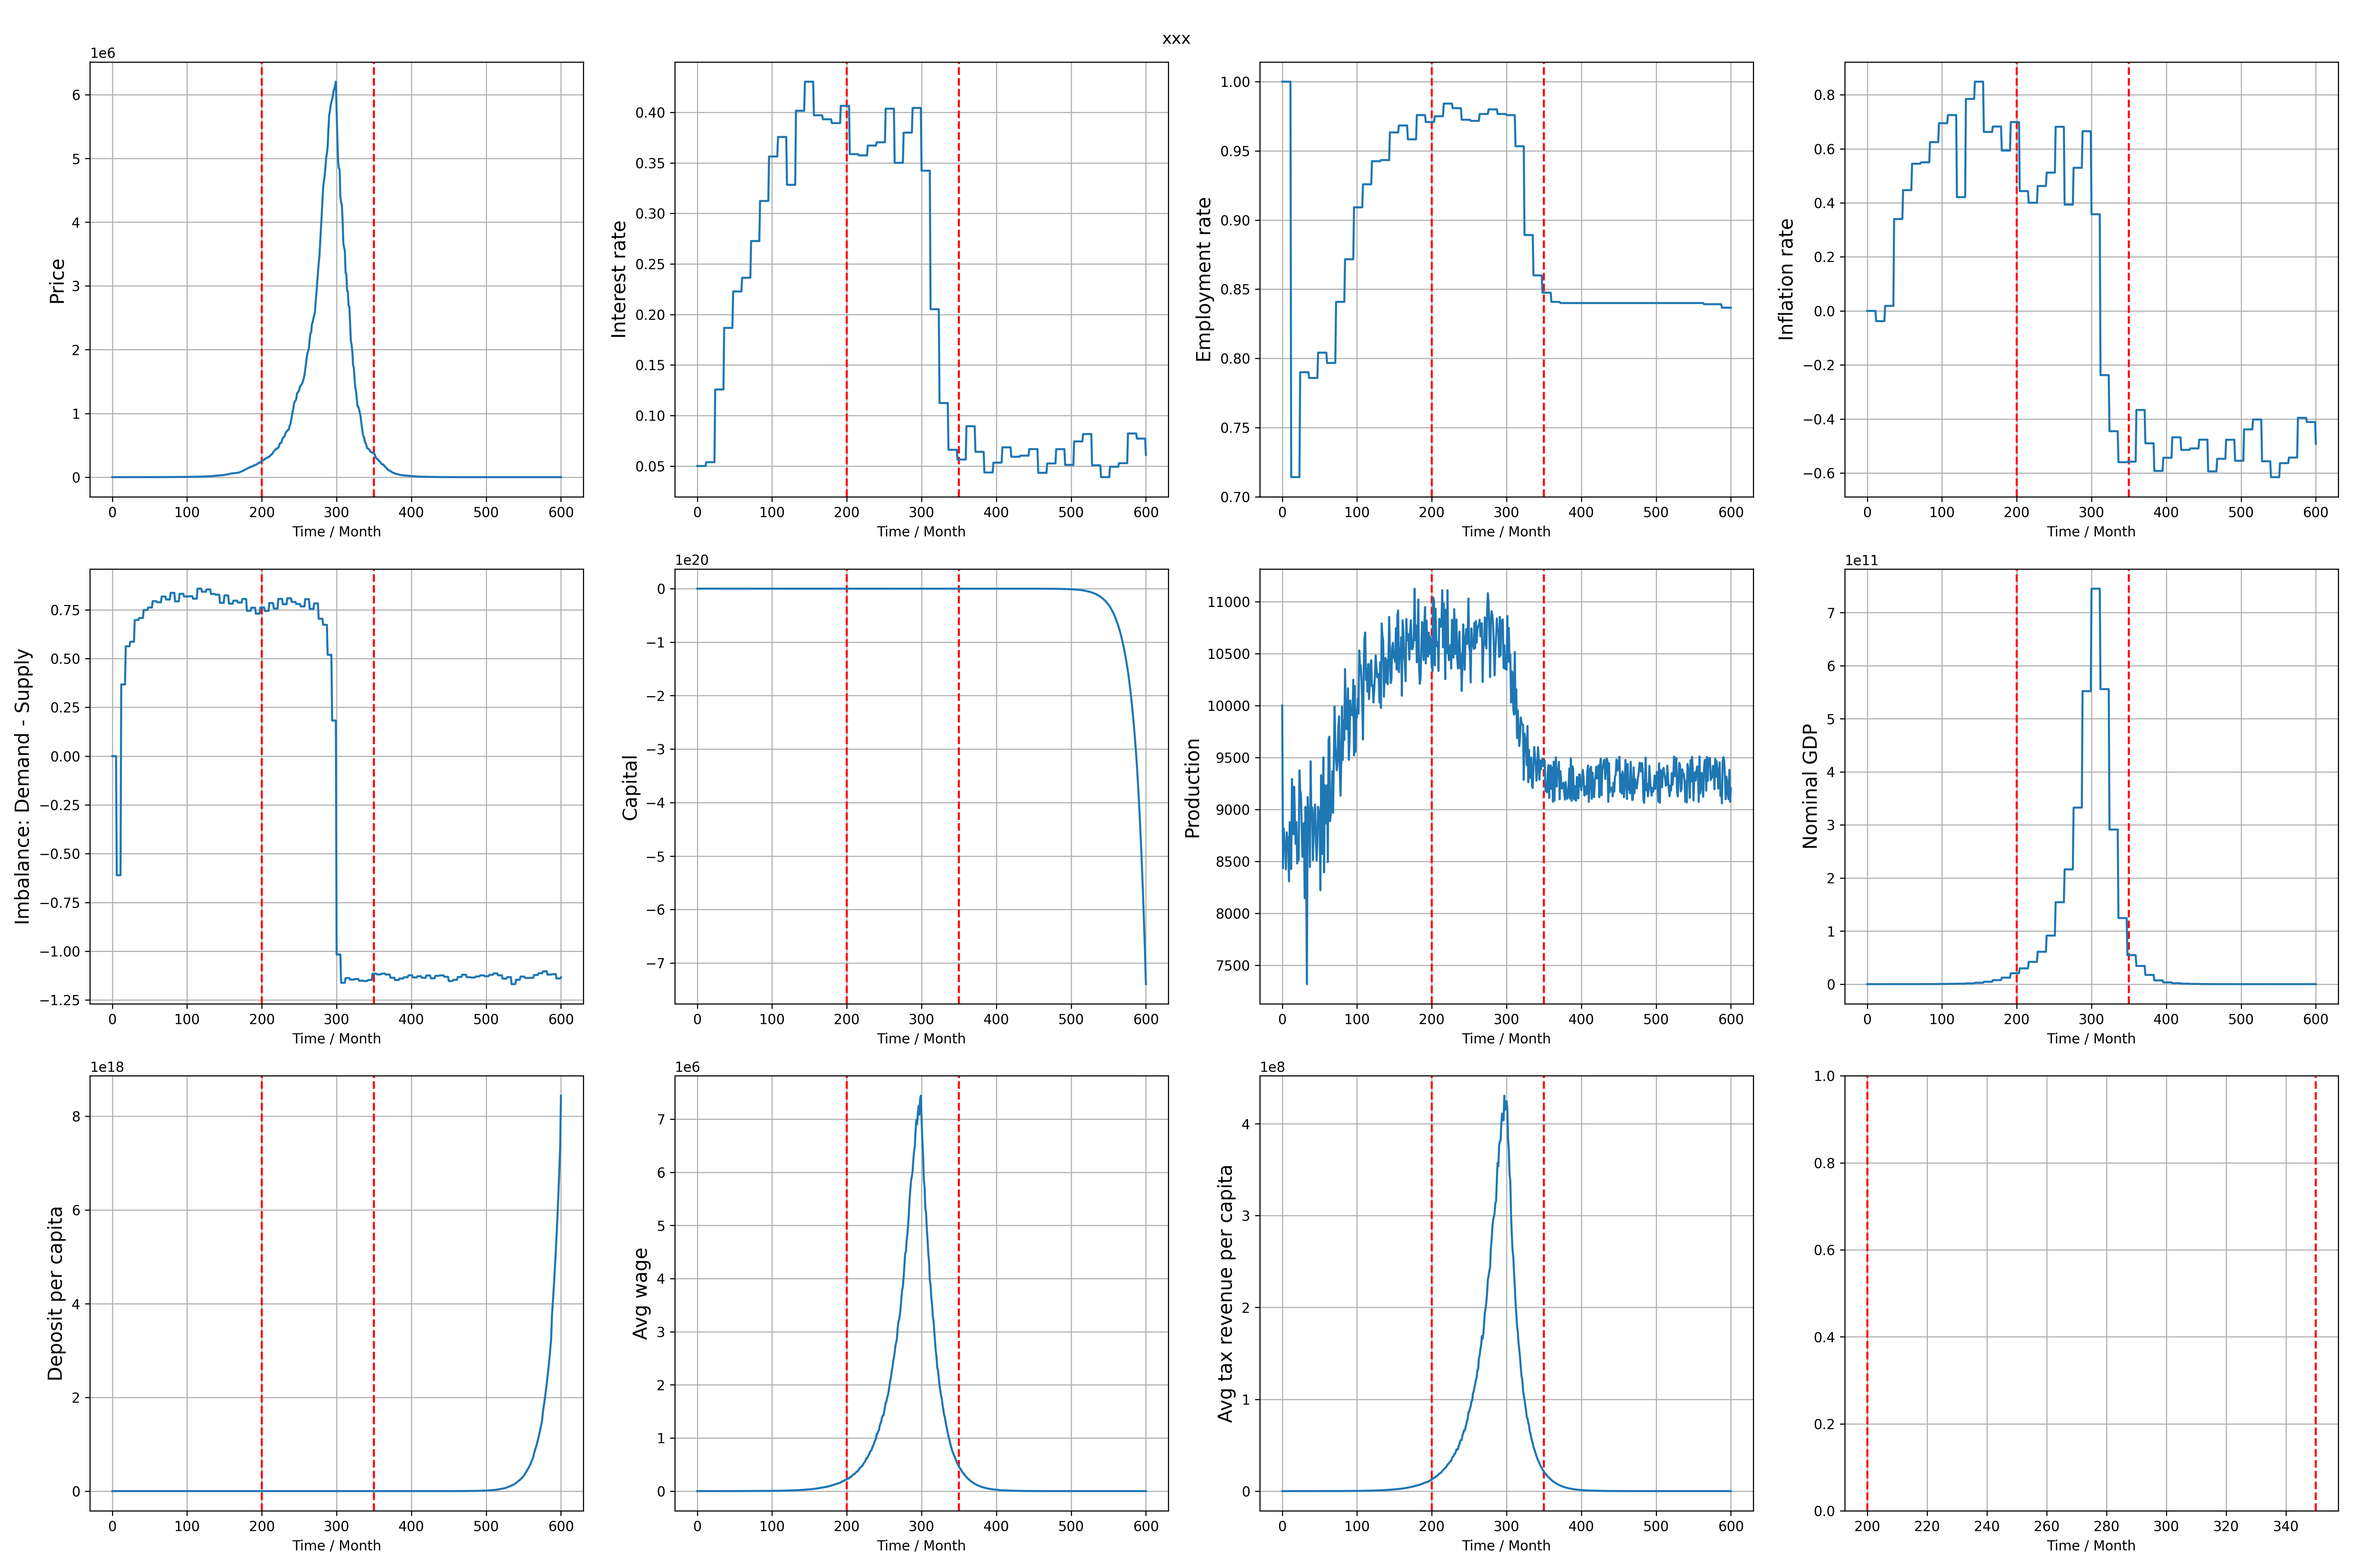
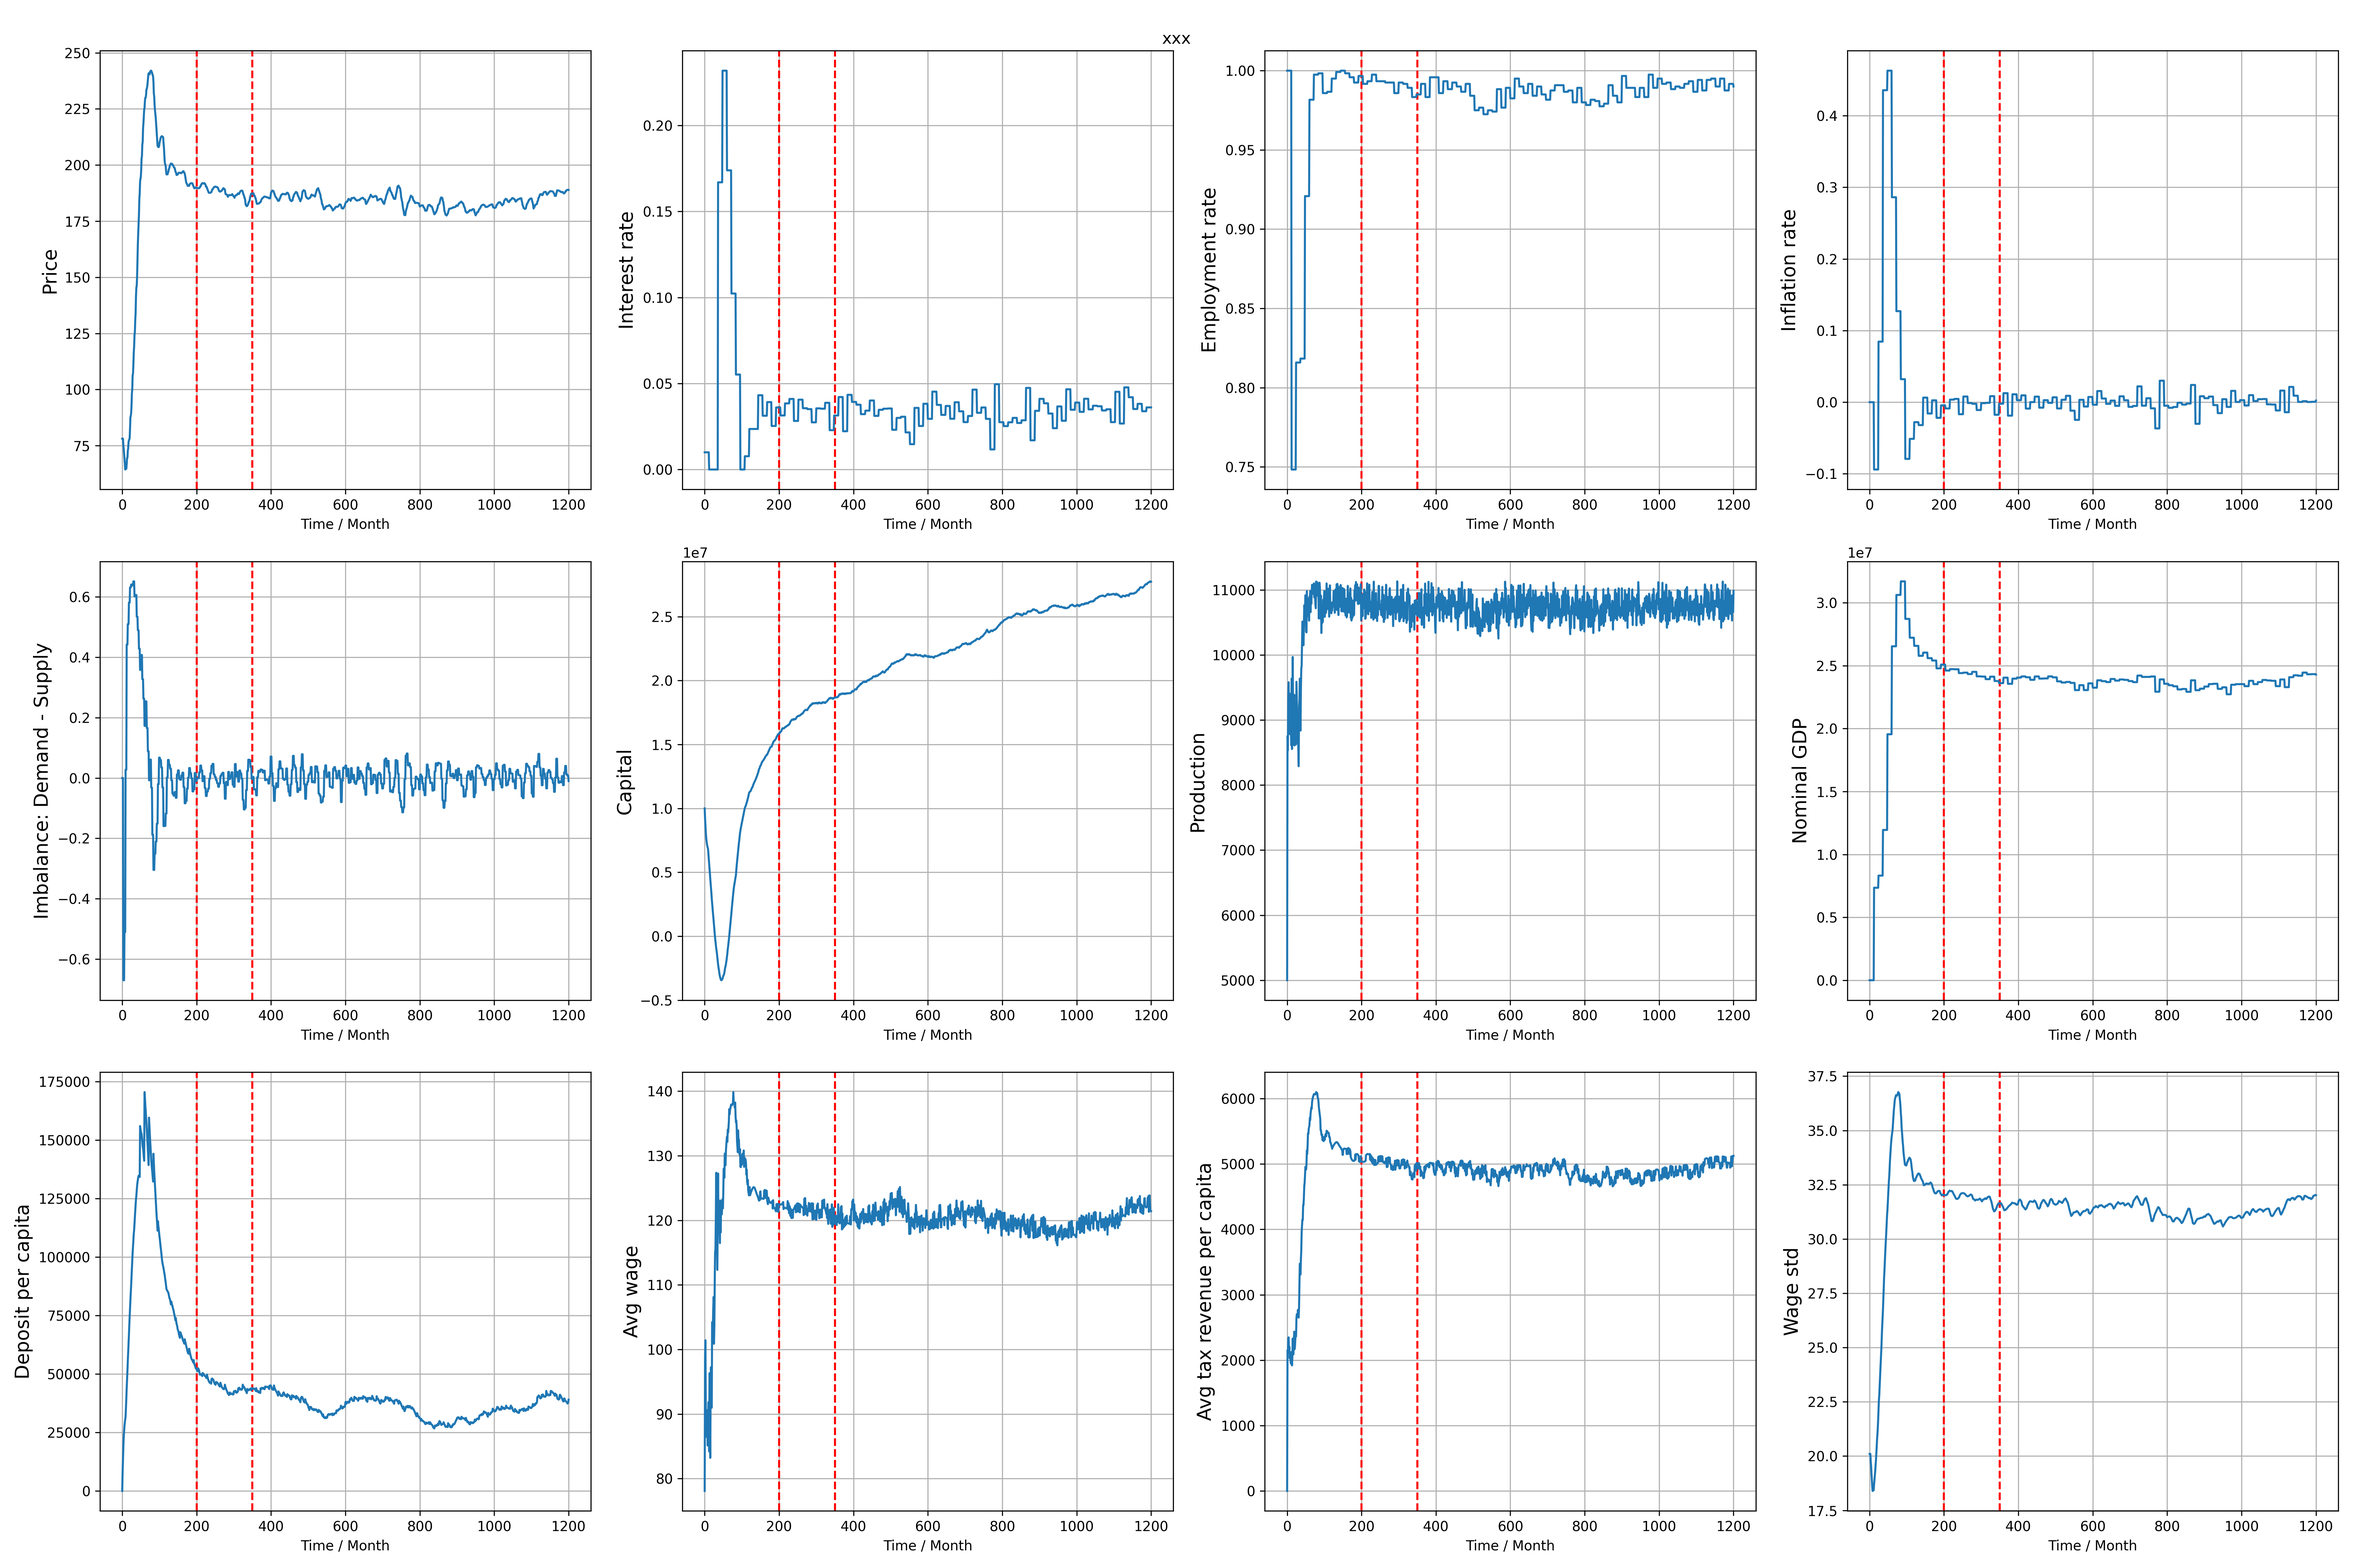
create new file src/market.py

diff --git a/main.py b/main.py
@@ -6,7 +6,7 @@ from config import Configuration
 from src.agent import agent
 from src.firm import firm
 from src.bank import bank   
-    
+from src.market import consumption
 
 def simulation(config:Configuration, event=False, intervention=False):
     '''one episode of simulation'''
@@ -93,35 +93,25 @@ def simulation(config:Configuration, event=False, intervention=False):
             else:
                 B.deposit(a.id, w + sum(taxes)/config.num_agents) # redistribution
             ################ 干 预 结 束 ################
-        if t % 6 == 0:
+        if t % 3 == 0:
             imba = imbalance(agents, F.P, F.G, B.deposits)
         
         ###########################################
         # consumption in random order 随机顺序消费 #
         ###########################################
-        random_list = np.arange(config.num_agents)
-        np.random.shuffle(random_list)
-        tmp_G = deepcopy(F.G)
-        total_consume_amount, total_consume_quantity = 0., 0.
-        for idx in random_list: 
-            a = agents[idx]
-            demand = a.pc * B.deposits[a.id] / F.P # intended demand
-            demand_actual = min(demand, tmp_G) # actual demand quanity
-            consump_actual = demand_actual * F.P # actual consumption
-            total_consume_quantity += demand_actual
-            B.deposits[a.id] -= consump_actual # update deposit
-            tmp_G -= demand_actual # update inventory of essential goods
-            total_consume_amount += consump_actual
-        F.capital += total_consume_amount
-        # print(t, '总消费量: ', total_consume_quantity)
+        total_consume_money, total_consume_quantity, deposits = consumption(config, agents, F.G, F.P, B.deposits)
+        F.capital += total_consume_money
+        # print(t, '总消费量: ', total_consume_money)
         #############################
         # price and wage adjustment #
         #############################
         
         F.wage_adjustment(agents, imba)
         F.price_adjustment(imba)
-        
-        F.G = tmp_G
+        F.G -= total_consume_quantity
+        print(B.deposits[1])
+        B.deposits = deposits
+        print(B.deposits[1], '\n')
         
         #####################
         # annual operation  #
@@ -133,7 +123,7 @@ def simulation(config:Configuration, event=False, intervention=False):
             B.rate_adjustment(unem_rate, infla_rate) 
             Nominal_GDP = GDP(log)
         
-        
+        print(t, F.capital)
         log[t] = {
             'year': t // 12.1 + 1,
             'work_state': work_state, 
@@ -151,7 +141,7 @@ def simulation(config:Configuration, event=False, intervention=False):
             'capital': F.capital,
             }
         
-        if t % 3 == 0 and t > 60:
+        if t % 3 == 0 and t > 30:
             for a in agents:
                 a.adjust(t, log)
 
@@ -164,7 +154,7 @@ if __name__ == '__main__':
     
     config = Configuration()
     t1 = time()
-    log = simulation(config)
+    log = simulation(config, event=False, intervention=False)
     plot_log('./figs/log.png', log, config)
     print('running time:{:.3f}'.format(time()-t1))
     

diff --git a/utils.py b/utils.py
@@ -1,16 +1,20 @@
 import numpy as np
 from config import Configuration
-from src.agent import agent
+from src.agent import agent, gauss_dist
 
 
 def init_agents(config:Configuration) -> list[agent]:
-    return [agent(id=i, 
+    agent_list = [agent(id=i, 
                   pw=np.random.uniform(config.pw_low, config.pw_high), 
                   pc=np.random.uniform(config.pc_low, config.pc_high), 
                   gamma=config.gamma, 
                   beta=config.gamma,
                   pw_delta=config.pw_delta,
                   pc_delta=config.pc_delta,) for i in range(config.num_agents)]
+    wages = gauss_dist(config.wage_mean, config.wage_std, config.num_agents)
+    for a, w in zip(agent_list, wages):
+        a.w = w
+    return agent_list
 
 def taxation(wages:list[float]):
     '''
@@ -288,7 +292,7 @@ def plot_log(img_name:str, log:dict, config:Configuration):
     deposit_history = [total_deposit(log[key]['deposit'])/config.num_agents for key in log.keys()]
     wage_history = [log[key]['avg_wage'] for key in log.keys()]
     taxes_history = [log[key]['taxes']/config.num_agents for key in log.keys()]
-    
+    wage_std_history = [np.std(log[key]['wage']) for key in log.keys()]
     axs[0, 0].plot(price_history);      axs[0, 0].set_ylabel('Price', fontsize=14)
     axs[0, 1].plot(rate_history);       axs[0, 1].set_ylabel('Interest rate', fontsize=14)
     axs[0, 2].plot(um_rate_history);    axs[0, 2].set_ylabel('Employment rate', fontsize=14)
@@ -300,7 +304,7 @@ def plot_log(img_name:str, log:dict, config:Configuration):
     axs[2, 0].plot(deposit_history);    axs[2, 0].set_ylabel('Deposit per capita', fontsize=14)
     axs[2, 1].plot(wage_history);       axs[2, 1].set_ylabel('Avg wage', fontsize=14)
     axs[2, 2].plot(taxes_history);      axs[2, 2].set_ylabel('Avg tax revenue per capita', fontsize=14)
-    
+    axs[2, 3].plot(wage_std_history);   axs[2, 3].set_ylabel('Wage std', fontsize=14)
     plt.tight_layout()
     plt.savefig(img_name, dpi=300)
     # plt.show()

diff --git a/config.py b/config.py
@@ -11,9 +11,9 @@ class Configuration:
     #####################################
     ##           仿 真 参 数           ##
     #####################################
-    seed = int(time()) # 123
+    seed = 124 # int(time()) # 123
     num_agents = 100
-    num_time_steps = 12 * 50
+    num_time_steps = 12 * 100
     
     
     #####################################
@@ -21,18 +21,18 @@ class Configuration:
     #####################################
     
     A = 1.0         # 生产率
-    alpha_w = 0.10
+    alpha_w = 0.05
     alpha_p = 0.10
-    init_good = 10000
-    init_cap = 0
+    init_good = 5000
+    init_cap = 1e7
     
     #####################################
     ##           银行模型参数           ##
     #####################################
-    rn = 0.05 # 0.01         # natural interest rate 自然利率
-    pi_t = 0.1 # 0.02        # target inflation rate 目标通膨率
-    un = 0.2 # 0.04          # natural unemployment rate 自然失业率
-    alpha_pi = 0.2
+    rn = 0.01 # 0.01         # natural interest rate 自然利率
+    pi_t = 0.02 # 0.02        # target inflation rate 目标通膨率
+    un = 0.04 # 0.04          # natural unemployment rate 自然失业率
+    alpha_pi = 0.5
     alpha_u = 1 - alpha_pi
     r_min = 0            # minimal inter
     
@@ -42,11 +42,15 @@ class Configuration:
     #####################################
     gamma = 0.5
     beta = 0.5
+    wage_mean = 80
+    wage_std = 20
     
     pw_low = 0.60
     pw_high = 1.0
     pc_low = 0.1
     pc_high = 0.4
     
-    pw_delta = 0.15
-    pc_delta = 0.002
+    pw_delta = 0.3
+    pc_delta = 0.005
+    
+    

diff --git a/src/market.py b/src/market.py
@@ -1,0 +1,23 @@
+import numpy as np
+from config import Configuration
+from src.agent import agent
+
+def consumption(config:Configuration, agents:list[agent], good_quantity:float, price:float, deposits:dict):
+    '''
+    随机顺序的消费
+    '''
+    random_list = np.arange(config.num_agents)
+    np.random.shuffle(random_list)
+    total_consume_money, total_consume_quantity = 0., 0.
+    
+    for idx in random_list: 
+        a = agents[idx]
+        intend_demand = a.pc * deposits[a.id] / price # intended demand
+        demand_actual = min(intend_demand, good_quantity) # actual demand quanity
+        money_actual = demand_actual * price # actual consumption
+        total_consume_quantity += demand_actual
+        deposits[a.id] -= money_actual # update deposit
+        good_quantity -= demand_actual # update inventory of essential goods
+        total_consume_money += money_actual
+
+    return total_consume_money, total_consume_quantity, deposits

diff --git a/src/agent.py b/src/agent.py
@@ -1,6 +1,9 @@
 import random
 import numpy as np
 
+def gauss_dist(mean_income, std_dev_income, num_samples=100):
+    return np.random.normal(mean_income, std_dev_income, num_samples)
+
 def beta_dist(size=1):
     '''
     truncated beta distribution for generating hourly wage
